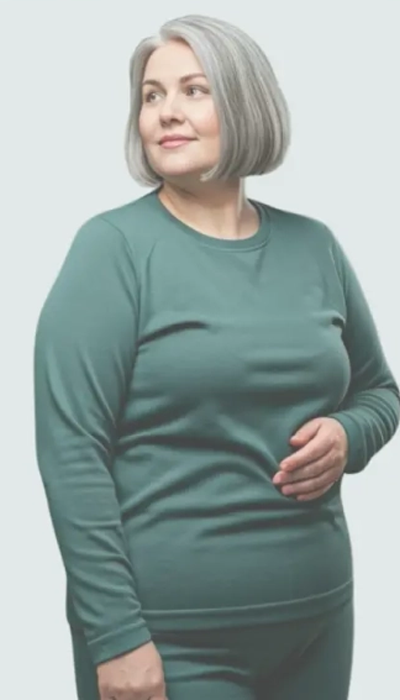
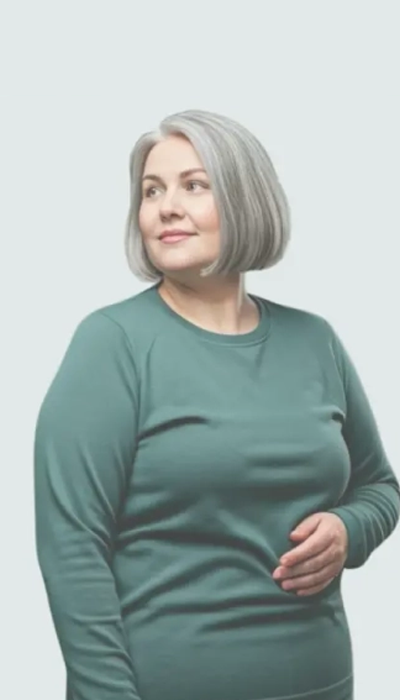
18:33

diff --git a/templates/index.html b/templates/index.html
@@ -868,7 +868,7 @@
             <span class="rating-badge"><span class="star">★</span> 4.8 de 5 &nbsp;|&nbsp; <strong>800k</strong> usuários</span>
             <h1>Desafio de 28 dias de Caminhada Tai Chi em Casa para emagrecimento</h1>
             <p class="section-tag" style="margin-top:12px;">DE ACORDO COM A SUA IDADE</p>
-            <span class="quiz-badge">quiz de 1 minute</span>
+            <span class="quiz-badge">quiz de 1 minuto</span>
         </div>
 
         <div class="hero-layout" style="padding:0 16px;">
@@ -1481,7 +1481,8 @@
                 </div>
             </div>
 
-            <div id="risks-box" class="analysis-box" style="display: none;">
+            <!-- QUADRO DE ANÁLISE DE RISCO DO IMC (Sempre visível e reativo) -->
+            <div id="risks-box" class="analysis-box">
                 <span id="risks-icon" class="analysis-icon">⚠</span>
                 <p id="risks-text" class="analysis-text"></p>
             </div>
@@ -1498,7 +1499,7 @@
             <div class="welcome-text-container">
                 <h2>Idade biológica</h2>
                 <p class="desc" style="font-size: 14px; font-weight: 800; margin-bottom: 8px;">Caminhar regularmente pode ajudar a reduzir a idade biológica e apoiar a saúde do coração</p>
-                <p class="desc" style="color: #666; font-size: 11px;">Um estudo publicado no Journal of Physical Activity and Health constatou que adults mais velhos que caminham regularmente tendem a apresentar menos fatores de risco ligados à saúde metabólica e cardiovascular.<br>Apenas para fins educativos. Não constitui aconselhamento médico.</p>
+                <p class="desc" style="color: #666; font-size: 11px;">Um estudo publicado no Journal of Physical Activity and Health constatou que adultos mais velhos que caminham regularmente tendem a apresentar menos fatores de risco ligados à saúde metabólica e cardiovascular.<br>Apenas para fins educativos. Não constitui aconselhamento médico.</p>
             </div>
         </div>
         <div class="footer-action">
@@ -1577,7 +1578,7 @@
         </div>
     </div>
 
-    <!-- STEP 36: NOVA PÁGINA DE OFERTA COMPLETA (ATUALIZADA COM IMAGENS ÚNICAS) -->
+    <!-- STEP 36: NOVA PÁGINA DE OFERTA COMPLETA (ATUALIZADA) -->
     <div id="step-36" class="step">
         <div class="offer-scroll">
             
@@ -1956,11 +1957,11 @@
 
             if (bmi >= 30) {
                 bmiBox.className = "analysis-box";
-                bmiEmoji.textContent = "🥵";
+                bmiEmoji.textContent = "📛"; // ATUALIZADO
                 bmiText.innerHTML = `<strong>Seu IMC é ${bmi}, considerado obesidade.</strong><br>Seu peso atual representa riscos para a sua saúde. Usaremos seu índice para criar um programa de perda de peso adaptado às suas necessidades.`;
             } else if (bmi >= 25) {
                 bmiBox.className = "analysis-box orange";
-                bmiEmoji.textContent = "😒";
+                bmiEmoji.textContent = "😔"; // ATUALIZADO
                 bmiText.innerHTML = `<strong>Seu IMC é ${bmi}, considerado sobrepeso.</strong><br>Seu peso requer mais atenção. Usaremos seu índice para personalizar um programa de perda de peso alinhado às suas necessidades e objetivos.`;
             } else if (bmi < 18.5) {
                 bmiBox.className = "analysis-box orange";
@@ -2058,7 +2059,7 @@
     /* ── SCRIPTS DE ANIMAÇÕES DINÂMICAS ── */
     
     function animateBMIGauge() {
-        const bmi = userData.bmi || 22.0;
+        const bmi = userData.bmi || 24.9; // Baseado no screenshot
         document.getElementById('gauge-bmi-val').textContent = bmi;
         
         let pct = ((bmi - 15) / (35 - 15)) * 100;
@@ -2073,18 +2074,24 @@
         const risksIcon = document.getElementById('risks-icon');
         const risksText = document.getElementById('risks-text');
 
+        risksBox.style.display = 'flex'; // SEMPRE VISÍVEL
+
         if (bmi >= 30) {
-            risksBox.style.display = 'flex';
             risksBox.className = "analysis-box"; // Vermelho
-            risksIcon.textContent = "🥵";
+            risksIcon.textContent = "📛"; // ATUALIZADO
             risksText.innerHTML = `<strong>Riscos de um IMC não saudável!</strong><br>Seu peso representa um risco crítico para a sua saúde. Usaremos seu índice para criar um programa de perda de peso adaptado às suas necessidades.`;
         } else if (bmi >= 25) {
-            risksBox.style.display = 'flex';
             risksBox.className = "analysis-box orange"; // Laranja
-            risksIcon.textContent = "😒";
+            risksIcon.textContent = "😔"; // ATUALIZADO
             risksText.innerHTML = `<strong>Seu peso requer mais atenção!</strong><br>Usaremos seu índice de sobrepeso para personalizar um programa de perda de peso alinhado às suas necessidades e objetivos.`;
+        } else if (bmi < 18.5) {
+            risksBox.className = "analysis-box orange"; // Laranja
+            risksIcon.textContent = "⚠";
+            risksText.innerHTML = `<strong>Abaixo do peso ideal!</strong><br>Foque em tonificação muscular e em uma alimentação equilibrada. Mantenha-se positiva e tente manter o consumo diário de calorias dentro da faixa recomendada.`;
         } else {
-            risksBox.style.display = 'none'; // Esconde se for saudável
+            risksBox.className = "analysis-box green"; // Verde
+            risksIcon.textContent = "✨";
+            risksText.innerHTML = `<strong>Seu peso está excelente!</strong><br>Ótimo! Seu peso está dentro da faixa saudável. Nosso plano vai focar em tonificação e bem-estar geral.`;
         }
     }
 
